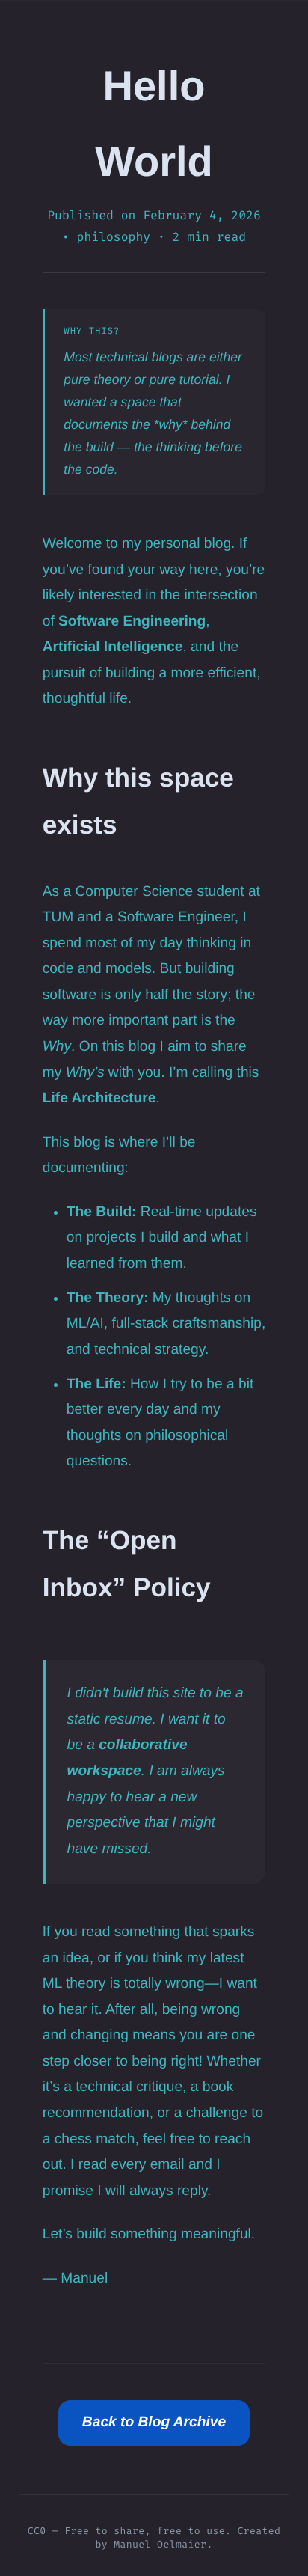
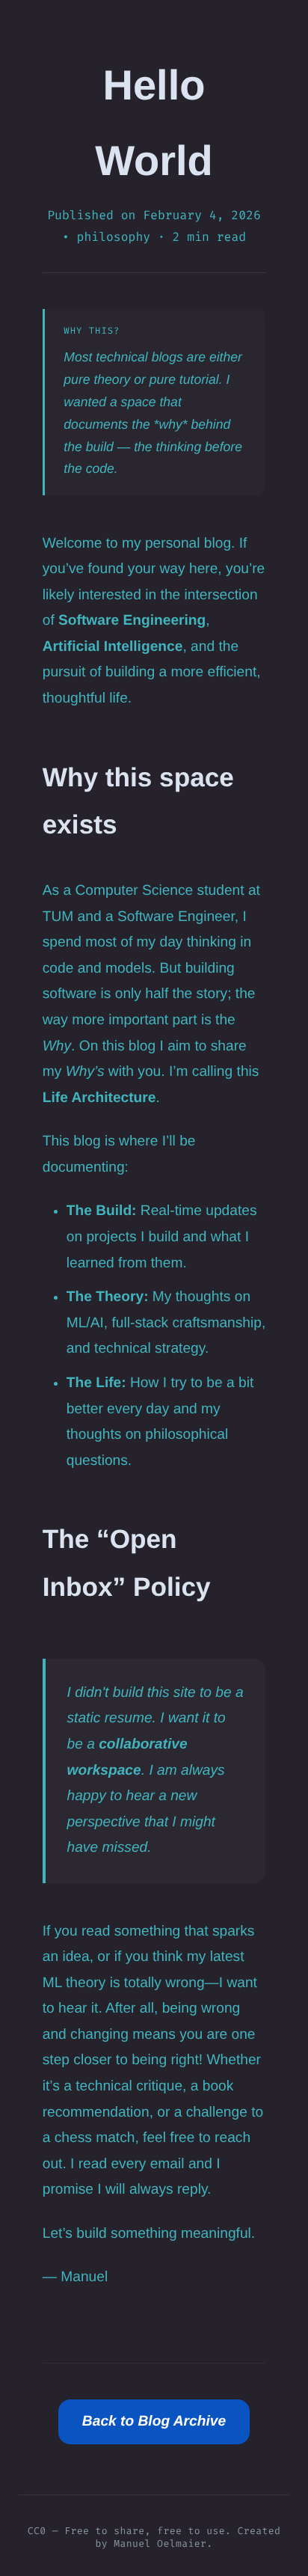
Refine hero and nav
- Hero: subtitle back to 'Software Engineer · AI / LLM Engineer', tagline
  reframed around clean engineering + AI depth, pillars removed
- Name heading scaled down from 4.5em to 3.6em
- Nav: taller padding, larger text and name for better presence

diff --git a/src/styles/style.css b/src/styles/style.css
@@ -39,7 +39,7 @@ html, body {
     display: flex;
     align-items: center;
     justify-content: space-between;
-    padding: 0.9rem var(--gutter);
+    padding: 1.2rem var(--gutter);
     background: hsla(259, 12%, 11%, 0.82);
     backdrop-filter: blur(14px);
     -webkit-backdrop-filter: blur(14px);
@@ -49,7 +49,7 @@ html, body {
 .nav-name {
     font-family: 'Poppins', sans-serif;
     font-weight: 600;
-    font-size: 1rem;
+    font-size: 1.1rem;
     color: hsl(216, 40%, 90%);
     font-style: normal;
     letter-spacing: 0.01em;
@@ -61,12 +61,12 @@ html, body {
 
 .site-nav nav {
     display: flex;
-    gap: 2rem;
+    gap: 2.5rem;
     align-items: center;
 }
 
 .site-nav nav a {
-    font-size: 0.9rem;
+    font-size: 1rem;
     font-style: normal;
     font-weight: 500;
     color: hsl(210, 15%, 65%);
@@ -179,7 +179,7 @@ strong {
 }
 
 #name {
-    font-size: 4.5em;
+    font-size: 3.6em;
 }
 
 #name-description {
@@ -196,28 +196,6 @@ strong {
     opacity: 0.8;
     font-weight: 300;
     max-width: 65ch;
-}
-
-/* ── Hero pillars ────────────────────────────────── */
-
-.hero-pillars {
-    display: flex;
-    flex-wrap: wrap;
-    justify-content: center;
-    gap: 0.75rem;
-    margin-top: 2rem;
-}
-
-.pillar {
-    font-family: var(--mono-font);
-    font-size: 0.85rem;
-    font-style: normal;
-    color: var(--normal-TextColor);
-    border: 1px solid var(--normal-TextColor);
-    border-radius: 2rem;
-    padding: 0.4rem 1.1rem;
-    opacity: 0.8;
-    letter-spacing: 0.02em;
 }
 
 /* ── About ───────────────────────────────────────── */
@@ -612,11 +590,11 @@ footer {
     }
 
     #name {
-        font-size: 4.5em;
+        font-size: 3.6em;
     }
 
     #name-description {
-        font-size: 3rem;
+        font-size: 2.8rem;
     }
 
     .about-container {